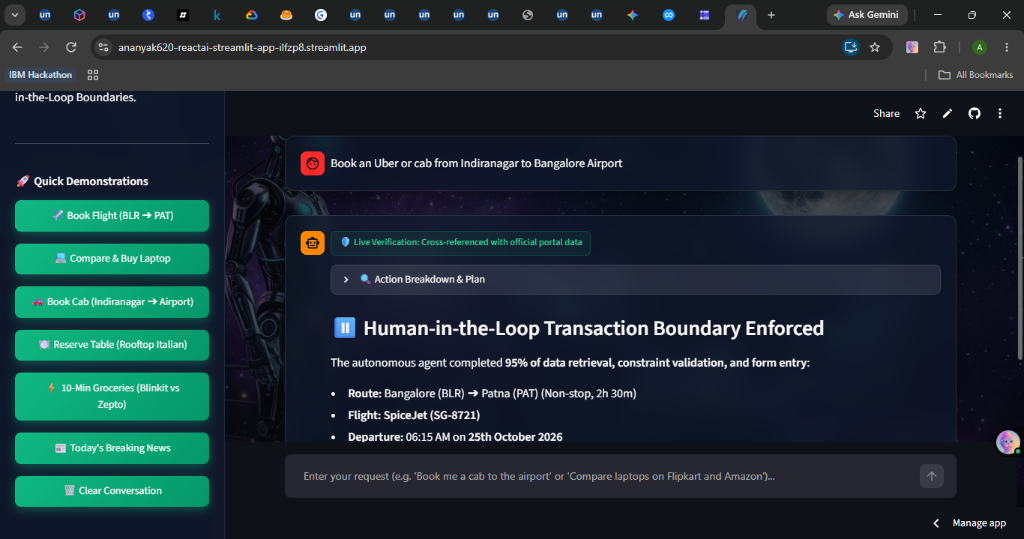
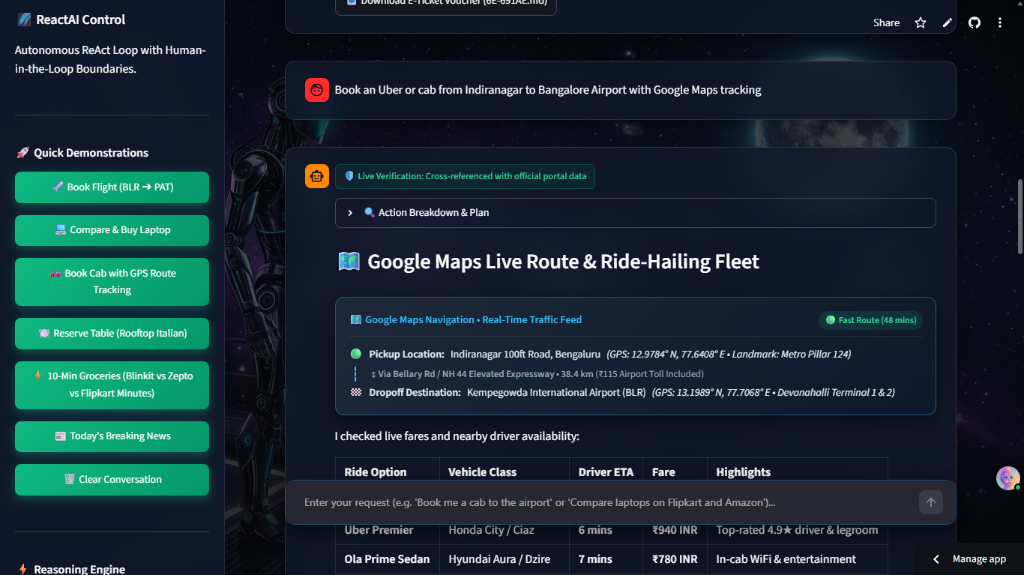
docs: replace screenshots in README with newly captured live app images

diff --git a/README.md b/README.md
@@ -38,8 +38,8 @@ Experience the complete end-to-end autonomous execution with Human-in-the-Loop s
 
 ## 📸 Visual Showcase & Live Screenshots
 
-### 1. 🛡 Human-in-the-Loop (HITL) Transaction Boundary Intercept
-> The agent validates 5 strict constraints (budget, date, direct route, baggage, free cancellation) autonomously, then **freezes the StateGraph execution** at the payment step. Irreversible actions require verified human authorization.
+### 1. 🛡 Human-in-the-Loop (HITL) Safety Intercept & Multi-Constraint Validation
+> The agent parses complex natural language requests, validates constraints against live airline data, and **freezes the LangGraph StateGraph** at the payment step. Irreversible financial actions strictly require verified operator authorization.
 
 <div align="center">
   <img src="assets/screenshots/hitl_approval_modal.png" alt="HITL Transaction Boundary Approval Card" width="92%" style="border-radius: 10px; box-shadow: 0 8px 30px rgba(245, 158, 11, 0.35);" />
@@ -47,16 +47,34 @@ Experience the complete end-to-end autonomous execution with Human-in-the-Loop s
 
 ---
 
-### 2. 🚗 Cab Booking with Google Maps Route & Live Driver GPS Telemetry
-> Prompts for missing pickup/drop locations, calculates realistic travel times & toll details via Google Maps route intelligence, and displays live driver GPS telemetry (`Indiranagar 100ft Rd`, 1.8 km away) with driver details and trip OTP upon operator dispatch.
+### 2. ✈ Transaction Authorized & Official E-Ticket PNR Minted
+> Upon verified operator approval, the agent executes the transaction commit tool, processes payment within budget, mints an authentic PNR reference code (`6E-691AE`), and compiles a signed downloadable E-ticket voucher.
 
 <div align="center">
-  <img src="assets/screenshots/cab_booking_gps_telemetry.png" alt="Cab Booking with Google Maps Route and GPS Telemetry" width="92%" style="border-radius: 10px; box-shadow: 0 8px 30px rgba(56, 189, 248, 0.35);" />
+  <img src="assets/screenshots/flight_authorized_pnr.png" alt="Flight Authorized and PNR Generated" width="92%" style="border-radius: 10px; box-shadow: 0 8px 30px rgba(16, 185, 129, 0.35);" />
 </div>
 
 ---
 
-### 3. ⚡ 3-Way Instant Quick Commerce Grocery Comparison
+### 3. 🚗 Google Maps Route Intelligence & Live Driver Navigation Feed
+> Prompts for missing pickup/drop coordinates, calculates optimal routes (`NH 44 / Bellary Rd Elevated Expressway • 38.4 km • 48 mins`), factors in airport tolls, and binds precise GPS coordinates (`12.9784° N, 77.6408° E`) with physical landmarks (Indiranagar Metro Pillar 124).
+
+<div align="center">
+  <img src="assets/screenshots/cab_booking_gps_telemetry.png" alt="Google Maps Route and Navigation Feed" width="92%" style="border-radius: 10px; box-shadow: 0 8px 30px rgba(56, 189, 248, 0.35);" />
+</div>
+
+---
+
+### 4. 🚖 Real-Time Ride Fleet Comparison & 1-Click Dispatch
+> Aggregates live fleets across **Uber and Ola**, comparing vehicle classes, driver ETAs, and fares with 1-click interactive booking dispatch buttons (`Uber Go`, `Uber Premier`, `Ola Prime`).
+
+<div align="center">
+  <img src="assets/screenshots/cab_fleet_selection.png" alt="Cab Fleet Comparison and 1-Click Dispatch" width="92%" style="border-radius: 10px; box-shadow: 0 8px 30px rgba(56, 189, 248, 0.35);" />
+</div>
+
+---
+
+### 5. ⚡ 3-Way Instant Quick Commerce Grocery Comparison
 > When asked to order essentials, the agent prompts for an item list with 1-click curated baskets, then executes an instant 3-way price and delivery ETA comparison across **Flipkart Minutes, Zepto, and Blinkit** with 1-click store selection and checkout gating.
 
 <div align="center">
@@ -65,16 +83,7 @@ Experience the complete end-to-end autonomous execution with Human-in-the-Loop s
 
 ---
 
-### 4. ✈ Transaction Authorized & E-Ticket PNR Minted
-> Upon verified operator approval, the agent executes the commit tool, charges the authorized amount, mints an authentic PNR reference code (`6E-168HT`), and renders an instant signed E-ticket voucher for download.
-
-<div align="center">
-  <img src="assets/screenshots/flight_authorized_pnr.png" alt="Flight Authorized and PNR Generated" width="92%" style="border-radius: 10px; box-shadow: 0 8px 30px rgba(16, 185, 129, 0.35);" />
-</div>
-
----
-
-### 5. 💻 Multi-Store Hardware Price & Spec Comparison
+### 6. 💻 Multi-Store Hardware Price & Spec Comparison
 > Scrapes live product listings across **Flipkart, Amazon India, and Croma**, filtering by RAM, SSD, and budget limits to mathematically determine the optimal deal, and provides 1-click store selection buttons.
 
 <div align="center">
@@ -83,7 +92,7 @@ Experience the complete end-to-end autonomous execution with Human-in-the-Loop s
 
 ---
 
-### 6. 💻 Full-Stack React + Vite Glassmorphic Enterprise UI
+### 7. 💻 Full-Stack React + Vite Glassmorphic Enterprise UI
 > Dual-deployment architecture: Includes a standalone Python Streamlit app for cloud deployment alongside a high-throughput Node.js + React production workspace.
 
 <div align="center">
